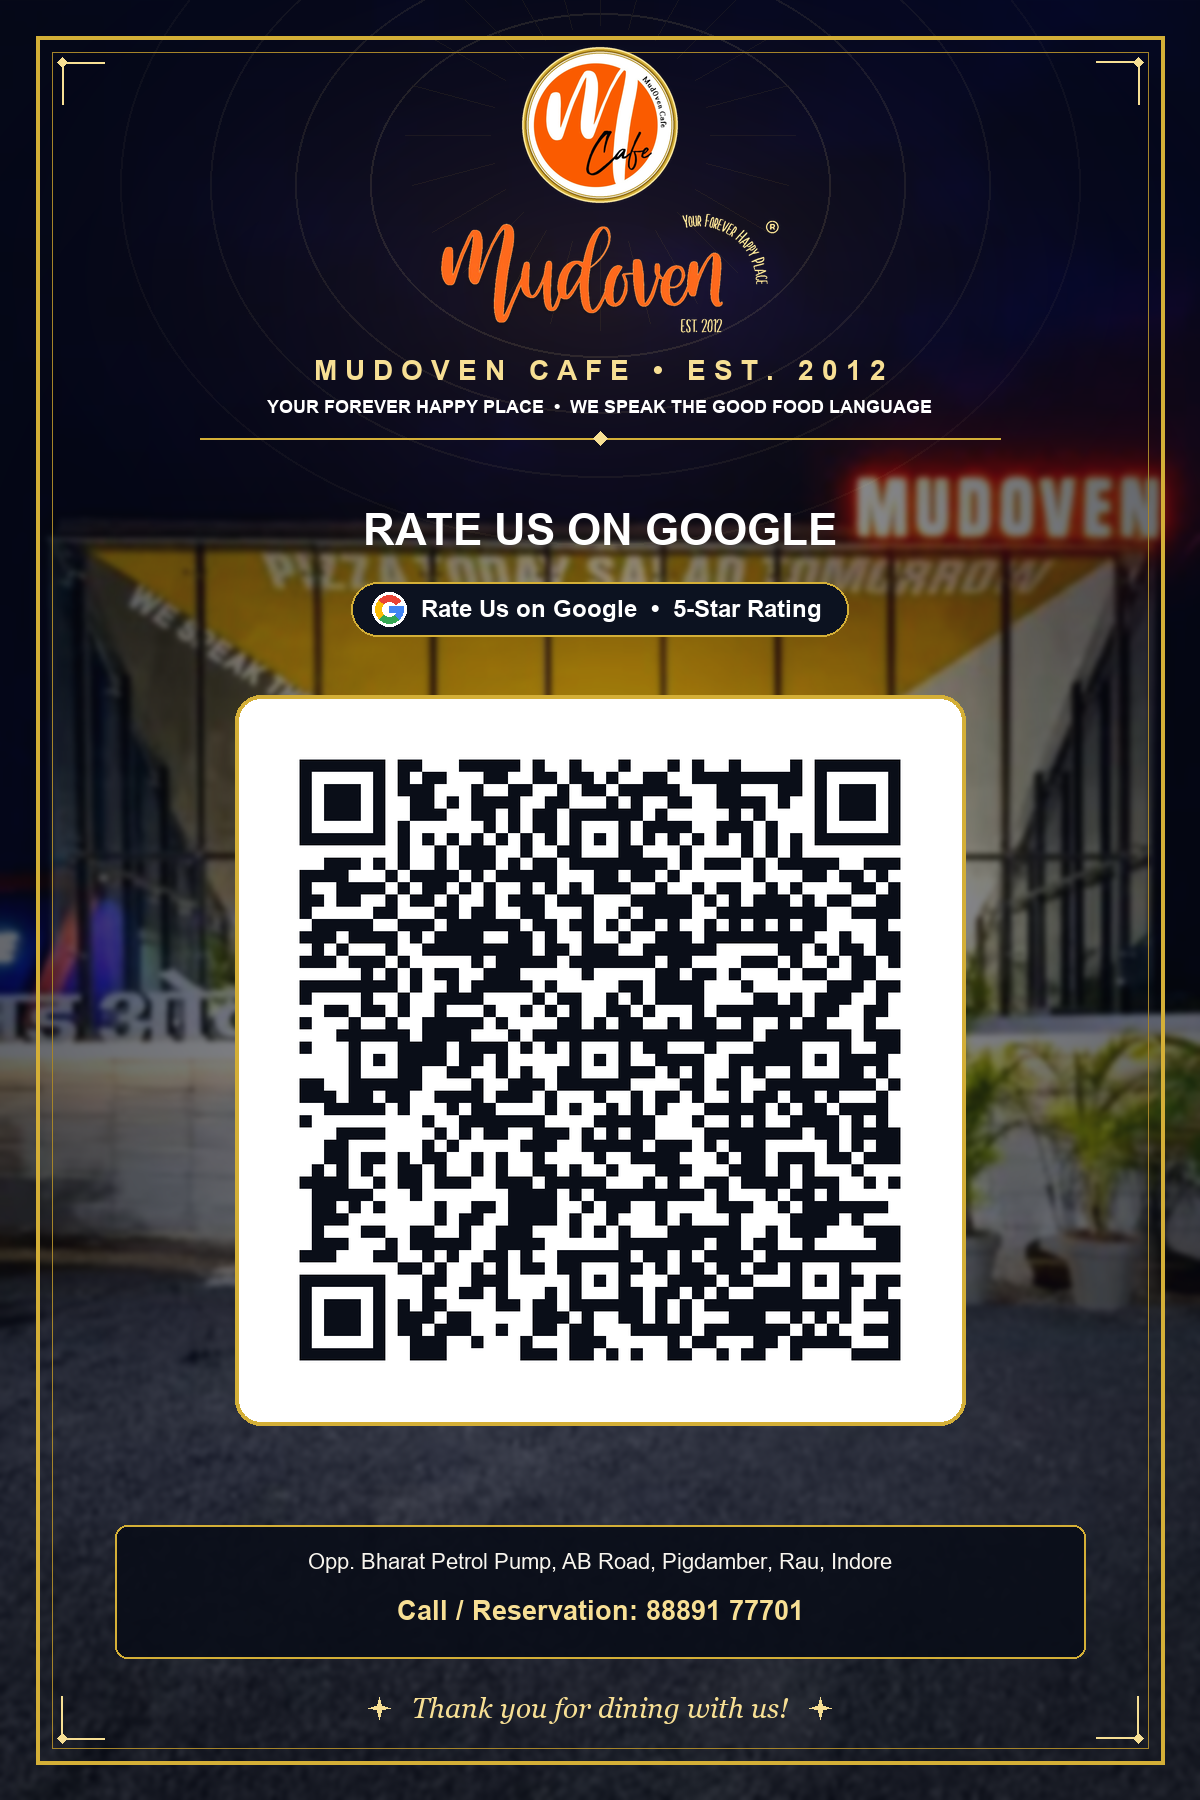
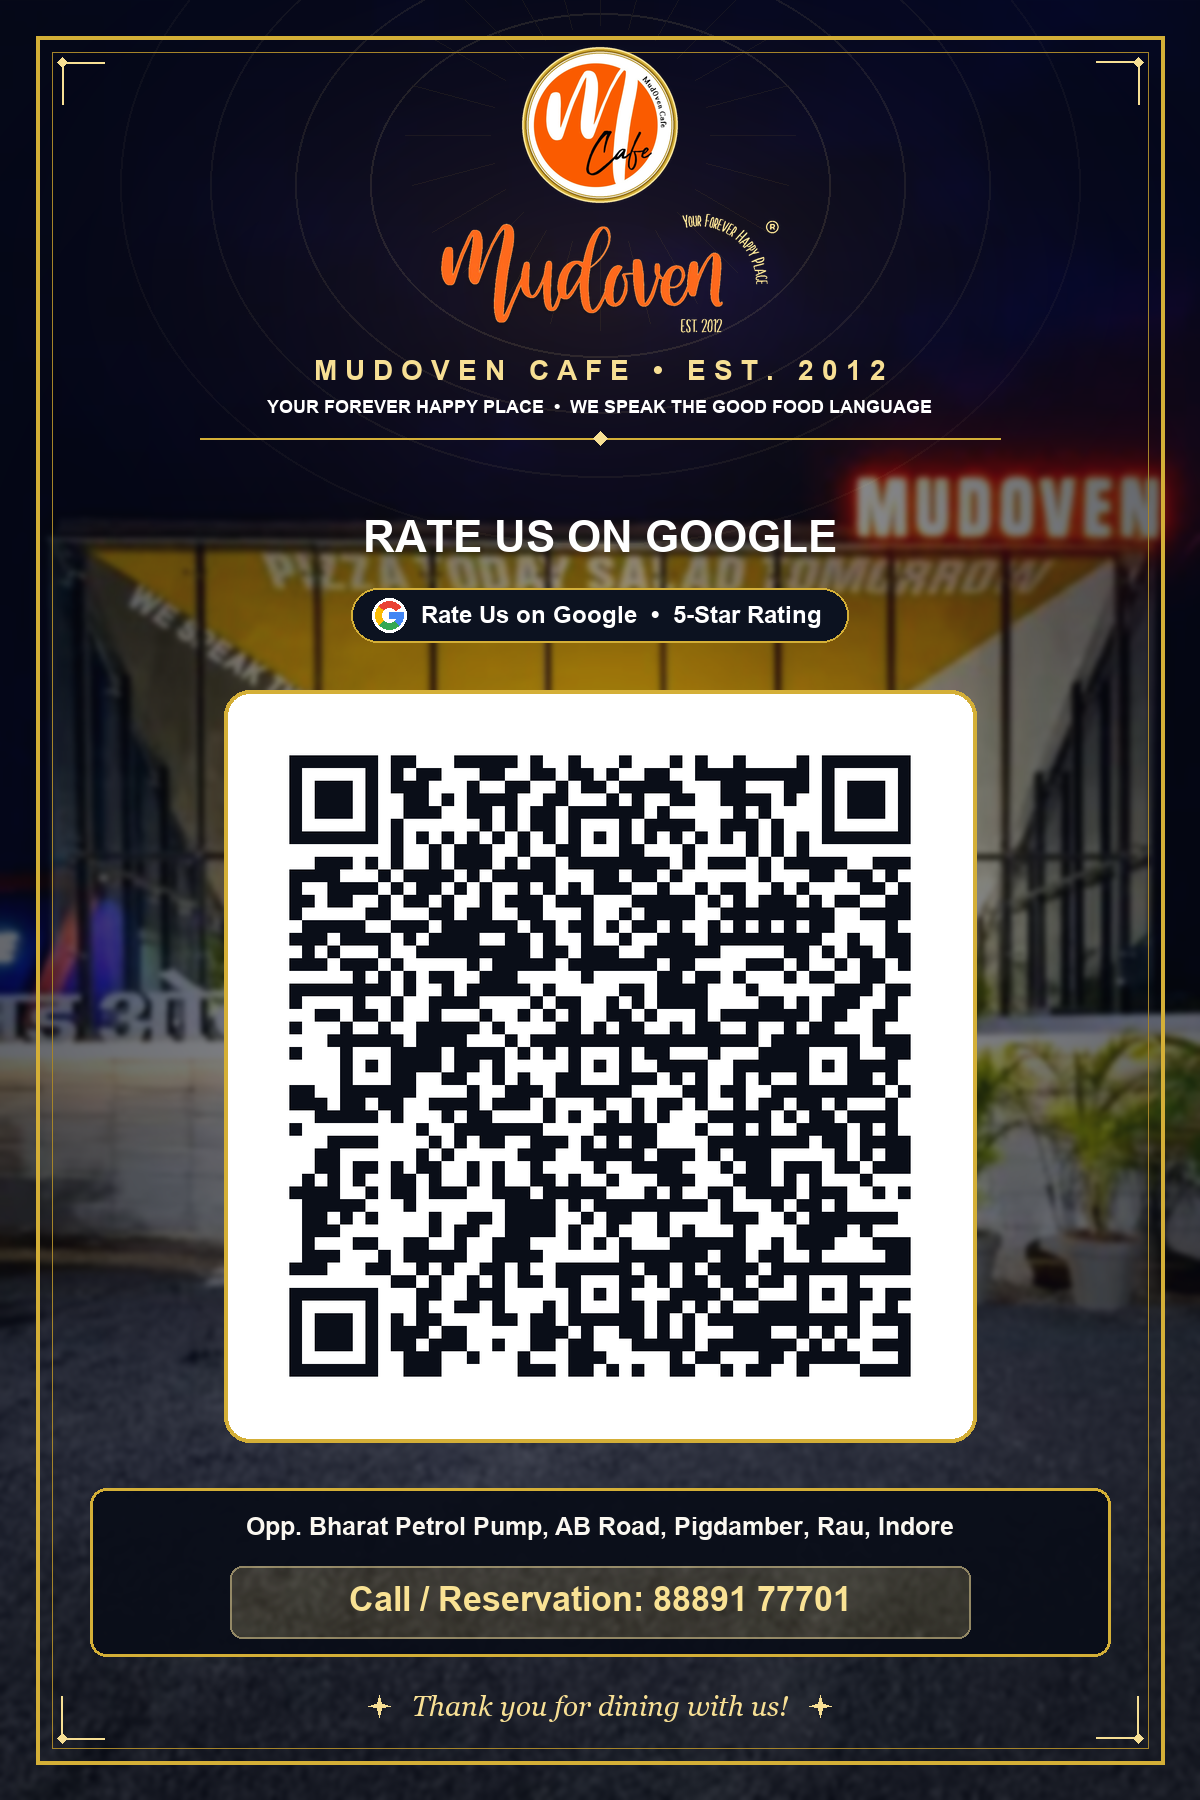
Reduce empty space below QR code and enlarge address + phone number box by 15% for print readability

Changed region(s): [[0.0617, 0.28, 0.925, 0.9644], [0.0925, 0.9022, 0.1233, 0.9333]]

diff --git a/index.html b/index.html
@@ -423,26 +423,28 @@
             display: block;
         }
 
-        /* 4. Bottom Address & Phone Box */
+        /* 4. Bottom Address & Phone Box (Enlarged 15% for High Readability) */
         .info-box {
             width: 100%;
-            background: rgba(9, 13, 24, 0.9);
+            background: rgba(9, 13, 24, 0.92);
             backdrop-filter: blur(8px);
             -webkit-backdrop-filter: blur(8px);
-            border: 1.5px solid var(--gold-primary);
-            border-radius: 14px;
-            padding: 12px 14px;
+            border: 2px solid var(--gold-primary);
+            border-radius: 15px;
+            padding: 14px 16px;
             margin-bottom: 12px;
             display: flex;
             flex-direction: column;
             align-items: center;
-            gap: 7px;
+            gap: 8px;
             position: relative;
             z-index: 2;
+            box-shadow: 0 8px 22px rgba(0, 0, 0, 0.5);
         }
 
         .address-line {
-            font-size: 11.5px;
+            font-size: 12.8px;
+            font-weight: 600;
             color: var(--text-cream);
             line-height: 1.4;
         }
@@ -451,16 +453,16 @@
             display: inline-flex;
             align-items: center;
             justify-content: center;
-            gap: 7px;
+            gap: 8px;
             color: var(--gold-light);
-            font-size: 14px;
+            font-size: 16px;
             font-weight: 800;
             text-decoration: none;
-            letter-spacing: 0.4px;
-            padding: 5px 14px;
-            border-radius: 10px;
-            background: rgba(212, 175, 55, 0.16);
-            border: 1px solid rgba(212, 175, 55, 0.48);
+            letter-spacing: 0.5px;
+            padding: 7px 18px;
+            border-radius: 11px;
+            background: rgba(212, 175, 55, 0.18);
+            border: 1.5px solid rgba(212, 175, 55, 0.58);
             transition: all 0.2s ease;
         }
 

diff --git a/standee.html b/standee.html
@@ -239,12 +239,13 @@
         }
 
         .qr-card-single {
-            width: 280px;
-            height: 280px;
+            width: 292px;
+            height: 292px;
             background: #ffffff;
             border: 2px solid var(--gold-primary);
             border-radius: 14px;
-            padding: 14px;
+            padding: 13px;
+            margin-bottom: -4px;
             box-shadow: 0 10px 24px rgba(0, 0, 0, 0.55);
             display: flex;
             align-items: center;
@@ -300,37 +301,39 @@
             color: #0d1322;
         }
 
-        /* Footer Section */
+        /* Footer Section (Enlarged 15% for Print Readability) */
         .standee-footer {
             width: 100%;
             display: flex;
             flex-direction: column;
             align-items: center;
-            gap: 8px;
+            gap: 7px;
             z-index: 3;
-            padding: 0 8px;
+            padding: 0 4px;
         }
 
         .standee-info-box {
-            width: 94%;
-            background: rgba(9, 13, 24, 0.9);
-            border: 1px solid var(--gold-primary);
-            border-radius: 8px;
-            padding: 8px 10px;
+            width: 98%;
+            background: rgba(9, 13, 24, 0.92);
+            border: 1.5px solid var(--gold-primary);
+            border-radius: 10px;
+            padding: 10px 12px;
             display: flex;
             flex-direction: column;
-            gap: 3px;
+            gap: 4px;
         }
 
         .standee-addr {
-            font-size: 9px;
+            font-size: 10.5px;
+            font-weight: 600;
             color: #f8f5ee;
         }
 
         .standee-phone {
-            font-size: 11px;
+            font-size: 13.5px;
             font-weight: 800;
             color: var(--gold-light);
+            letter-spacing: 0.3px;
         }
 
         .standee-thanks {

diff --git a/generate_qr.py b/generate_qr.py
@@ -429,23 +429,31 @@ def draw_brand_header(canvas, draw, w=1200):
 
 def draw_footer(canvas, draw, w=1200):
     """
-    Draw the Bottom Address & Phone Box + Gold Sparkle Thank-You Footer
-    over a rich dark Midnight-Obsidian glass panel.
+    Draw the Enlarged (15% larger) Bottom Address & Phone Box + Gold Sparkle Thank-You Footer
+    for effortless readability even on compact printed cards/sachets.
     """
-    font_addr = get_font(22, bold=False)
-    font_phone = get_font(27, bold=True)
+    font_addr = get_font(25, bold=True)
+    font_phone = get_font(34, bold=True)
     font_thanks = get_font(28, bold=False, italic=True, serif=True)
 
-    info_x1, info_y1 = 115, 1525
-    info_x2, info_y2 = w - 115, 1658
+    info_x1, info_y1 = 90, 1488
+    info_x2, info_y2 = w - 90, 1656
 
     glass = Image.new("RGBA", (w, 1800), (0, 0, 0, 0))
     gdraw = ImageDraw.Draw(glass)
     gdraw.rounded_rectangle(
         [info_x1, info_y1, info_x2, info_y2],
-        radius=12,
-        fill=(9, 13, 24, 230),
+        radius=16,
+        fill=(9, 13, 24, 238),
         outline=(212, 175, 55, 255),
+        width=3
+    )
+    # Subtle inner gold pill highlight behind phone number for extra print contrast
+    gdraw.rounded_rectangle(
+        [info_x1 + 140, info_y1 + 78, info_x2 - 140, info_y2 - 18],
+        radius=12,
+        fill=(212, 175, 55, 34),
+        outline=(247, 223, 148, 135),
         width=2
     )
     canvas_rgba = canvas.convert("RGBA")
@@ -454,17 +462,17 @@ def draw_footer(canvas, draw, w=1200):
 
     addr_text = "Opp. Bharat Petrol Pump, AB Road, Pigdamber, Rau, Indore"
     bbox = draw.textbbox((0, 0), addr_text, font=font_addr)
-    draw.text(((w - (bbox[2] - bbox[0])) / 2, info_y1 + 24), addr_text, fill=(248, 245, 238), font=font_addr)
+    draw.text(((w - (bbox[2] - bbox[0])) / 2, info_y1 + 24), addr_text, fill=(250, 247, 240), font=font_addr)
 
     phone_text = "Call / Reservation: 88891 77701"
     bbox = draw.textbbox((0, 0), phone_text, font=font_phone)
-    draw.text(((w - (bbox[2] - bbox[0])) / 2, info_y1 + 70), phone_text, fill=(247, 223, 148), font=font_phone)
+    draw.text(((w - (bbox[2] - bbox[0])) / 2, info_y1 + 92), phone_text, fill=(249, 226, 148), font=font_phone)
 
     thanks_text = "Thank you for dining with us!"
     bbox = draw.textbbox((0, 0), thanks_text, font=font_thanks)
     tw = bbox[2] - bbox[0]
     tx = (w - tw) / 2
-    ty = 1692
+    ty = 1690
     draw.text((tx, ty), thanks_text, fill=(247, 223, 148), font=font_thanks)
 
     draw_sparkle(draw, tx - 32, ty + 16, radius=11, color=(247, 223, 148))
@@ -473,7 +481,7 @@ def draw_footer(canvas, draw, w=1200):
 
 def build_hub_standee(config, bg_img, output_filenames=["table_standee_printable.png", "standee_front_printable.png"]):
     """
-    Generate the 300 DPI Primary Table Standee with generous center breathing room.
+    Generate the 300 DPI Primary Table Standee with reduced gap below QR code and enlarged address/phone box.
     """
     w, h = 1200, 1800
     canvas = bg_img.copy()
@@ -486,7 +494,7 @@ def build_hub_standee(config, bg_img, output_filenames=["table_standee_printable
 
     cta_text = "SCAN TO CONNECT"
     bbox = draw.textbbox((0, 0), cta_text, font=font_cta)
-    draw.text(((w - (bbox[2] - bbox[0])) / 2, 505), cta_text, fill=(255, 255, 255), font=font_cta)
+    draw.text(((w - (bbox[2] - bbox[0])) / 2, 512), cta_text, fill=(255, 255, 255), font=font_cta)
 
     # Two Pill Badges: [G Rate Us on Google] and [Follow Us on Instagram]
     label_g = "Rate Us on Google"
@@ -494,7 +502,7 @@ def build_hub_standee(config, bg_img, output_filenames=["table_standee_printable
     bbox_g = draw.textbbox((0, 0), label_g, font=font_pill)
     bbox_i = draw.textbbox((0, 0), label_i, font=font_pill)
 
-    pill_y = 582
+    pill_y = 588
     pill_h = 54
     pill_w_g = (bbox_g[2] - bbox_g[0]) + 84
     pill_w_i = (bbox_i[2] - bbox_i[0]) + 84
@@ -519,12 +527,12 @@ def build_hub_standee(config, bg_img, output_filenames=["table_standee_printable
     qr_url = config.get("landingPageUrl", "https://hospitalityqr.github.io/MUDOVEN-QR/?v=1")
     qr_img = generate_styled_qr(qr_url, box_size=18, border=2, fill_color=(10, 14, 24))
 
-    card_size = 730
-    qr_size = 650
+    card_size = 752
+    qr_size = 672
     qr_img = qr_img.resize((qr_size, qr_size), Image.Resampling.LANCZOS)
 
     card_x = int((w - card_size) / 2)
-    card_y = 695
+    card_y = 690
 
     shadow_layer = Image.new("RGBA", (w, h), (0, 0, 0, 0))
     sdraw = ImageDraw.Draw(shadow_layer)
@@ -556,7 +564,7 @@ def build_hub_standee(config, bg_img, output_filenames=["table_standee_printable
 
 def build_dual_direct_standee(config, bg_img, output_filename="standee_dual_direct_static.png"):
     """
-    Generate 300 DPI Dual Direct Static Standee with generous center breathing room.
+    Generate 300 DPI Dual Direct Static Standee with reduced bottom gap and enlarged address/phone box.
     """
     w, h = 1200, 1800
     canvas = bg_img.copy()
@@ -574,11 +582,11 @@ def build_dual_direct_standee(config, bg_img, output_filename="standee_dual_dire
 
     cta_text = "SCAN TO CONNECT DIRECTLY"
     bbox = draw.textbbox((0, 0), cta_text, font=font_cta)
-    draw.text(((w - (bbox[2] - bbox[0])) / 2, 502), cta_text, fill=(255, 255, 255), font=font_cta)
+    draw.text(((w - (bbox[2] - bbox[0])) / 2, 498), cta_text, fill=(255, 255, 255), font=font_cta)
 
     sub_cta = "Point Your Camera Directly At Either QR Below  •  Instant Open"
     bbox = draw.textbbox((0, 0), sub_cta, font=font_sub_cta)
-    draw.text(((w - (bbox[2] - bbox[0])) / 2, 560), sub_cta, fill=(247, 223, 148), font=font_sub_cta)
+    draw.text(((w - (bbox[2] - bbox[0])) / 2, 556), sub_cta, fill=(247, 223, 148), font=font_sub_cta)
 
     google_url = config.get("googleReviewUrl", "https://www.google.com/gasearch?q=mudoven%20reviews&source=sh/x/gs/m2/5#ebo=3")
     insta_url = config.get("instagramUrl", "https://www.instagram.com/mudoven_indore?stkn=MTl0c2Q4eWVueXkwNg==")
@@ -589,7 +597,7 @@ def build_dual_direct_standee(config, bg_img, output_filename="standee_dual_dire
     card_w, card_h = 475, 585
     left_x = 100
     right_x = w - 100 - card_w
-    cards_y = 634
+    cards_y = 626
 
     # Left Card: Rate Us on Google
     draw.rounded_rectangle([left_x, cards_y, left_x + card_w, cards_y + card_h], radius=24, fill=(255, 255, 255), outline=(212, 175, 55), width=4)
@@ -611,8 +619,8 @@ def build_dual_direct_standee(config, bg_img, output_filename="standee_dual_dire
     draw.text((right_x + (card_w - (bbox[2] - bbox[0])) / 2, cards_y + 522), i_foot, fill=(12, 18, 32), font=font_card_sub)
 
     # Luxury Hospitality Highlights Strip
-    feat_x1, feat_y1 = 115, 1276
-    feat_x2, feat_y2 = w - 115, 1468
+    feat_x1, feat_y1 = 90, 1254
+    feat_x2, feat_y2 = w - 90, 1446
     glass = Image.new("RGBA", (w, h), (0, 0, 0, 0))
     gdraw = ImageDraw.Draw(glass)
     gdraw.rounded_rectangle([feat_x1, feat_y1, feat_x2, feat_y2], radius=16, fill=(9, 13, 24, 225), outline=(212, 175, 55, 255), width=2)
@@ -642,7 +650,7 @@ def build_dual_direct_standee(config, bg_img, output_filename="standee_dual_dire
 
 def build_single_direct_standee(config, bg_img, url, mode="google", output_filename="standee_google_direct.png"):
     """
-    Generate 300 DPI Single Direct Standee with generous center breathing room.
+    Generate 300 DPI Single Direct Standee with reduced gap below QR code and enlarged address/phone box.
     """
     w, h = 1200, 1800
     canvas = bg_img.copy()
@@ -661,13 +669,13 @@ def build_single_direct_standee(config, bg_img, url, mode="google", output_filen
         pill_label = "Follow Us on Instagram  •  @mudoven_indore"
 
     bbox = draw.textbbox((0, 0), cta_text, font=font_cta)
-    draw.text(((w - (bbox[2] - bbox[0])) / 2, 505), cta_text, fill=(255, 255, 255), font=font_cta)
+    draw.text(((w - (bbox[2] - bbox[0])) / 2, 512), cta_text, fill=(255, 255, 255), font=font_cta)
 
     bbox_p = draw.textbbox((0, 0), pill_label, font=font_pill)
     pill_w = (bbox_p[2] - bbox_p[0]) + 96
     pill_h = 54
     px1 = int((w - pill_w) / 2)
-    py1 = 582
+    py1 = 588
     draw.rounded_rectangle([px1, py1, px1 + pill_w, py1 + pill_h], radius=27, fill=(12, 18, 32), outline=(212, 175, 55), width=2)
     if mode == "google":
         draw_google_g_icon(draw, px1 + 38, py1 + pill_h // 2, radius=14)
@@ -676,11 +684,11 @@ def build_single_direct_standee(config, bg_img, url, mode="google", output_filen
     draw.text((px1 + 70, py1 + 13), pill_label, fill=(255, 255, 255), font=font_pill)
 
     qr_img = generate_styled_qr(url, box_size=18, border=2, fill_color=(10, 14, 24))
-    card_size = 730
-    qr_size = 650
+    card_size = 752
+    qr_size = 672
     qr_img = qr_img.resize((qr_size, qr_size), Image.Resampling.LANCZOS)
     card_x = int((w - card_size) / 2)
-    card_y = 695
+    card_y = 690
 
     draw.rounded_rectangle(
         [card_x, card_y, card_x + card_size, card_y + card_size],
@@ -753,14 +761,14 @@ def build_mobile_landing_preview(bg_img, output_filename="mobile_landing_preview
     bbox = draw.textbbox((0, 0), sec_label, font=font_sec)
     sw = bbox[2] - bbox[0]
     sx = (w - sw) / 2
-    draw.text((sx, 1045), sec_label, fill=(247, 223, 148), font=font_sec)
-    draw_sparkle(draw, sx - 24, 1058, radius=9, color=(247, 223, 148))
-    draw_sparkle(draw, sx + sw + 24, 1058, radius=9, color=(247, 223, 148))
+    draw.text((sx, 1040), sec_label, fill=(247, 223, 148), font=font_sec)
+    draw_sparkle(draw, sx - 24, 1053, radius=9, color=(247, 223, 148))
+    draw_sparkle(draw, sx + sw + 24, 1053, radius=9, color=(247, 223, 148))
 
-    thumb_w, thumb_h = 302, 360
+    thumb_w, thumb_h = 302, 350
     thumb_gap = 32
     t_start_x = int((w - (thumb_w * 3 + thumb_gap * 2)) / 2)
-    t_y = 1102
+    t_y = 1094
     for idx, fn in enumerate(["ambience_1.jpg", "ambience_2.jpg", "ambience_3.jpg"]):
         tx = t_start_x + idx * (thumb_w + thumb_gap)
         if os.path.exists(fn):
